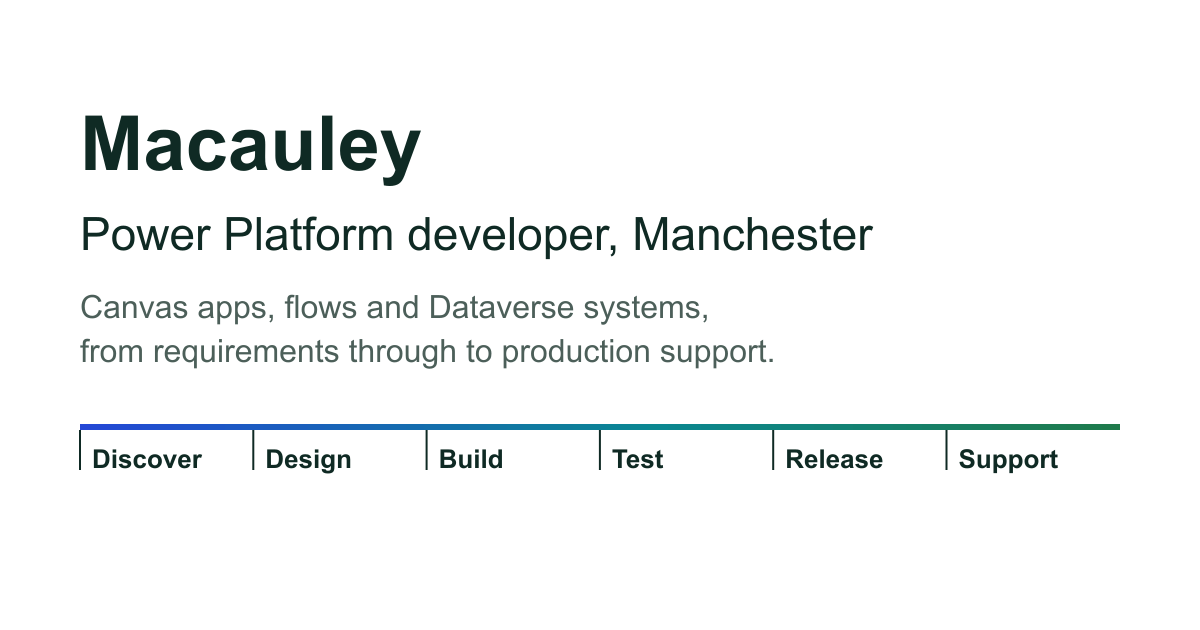
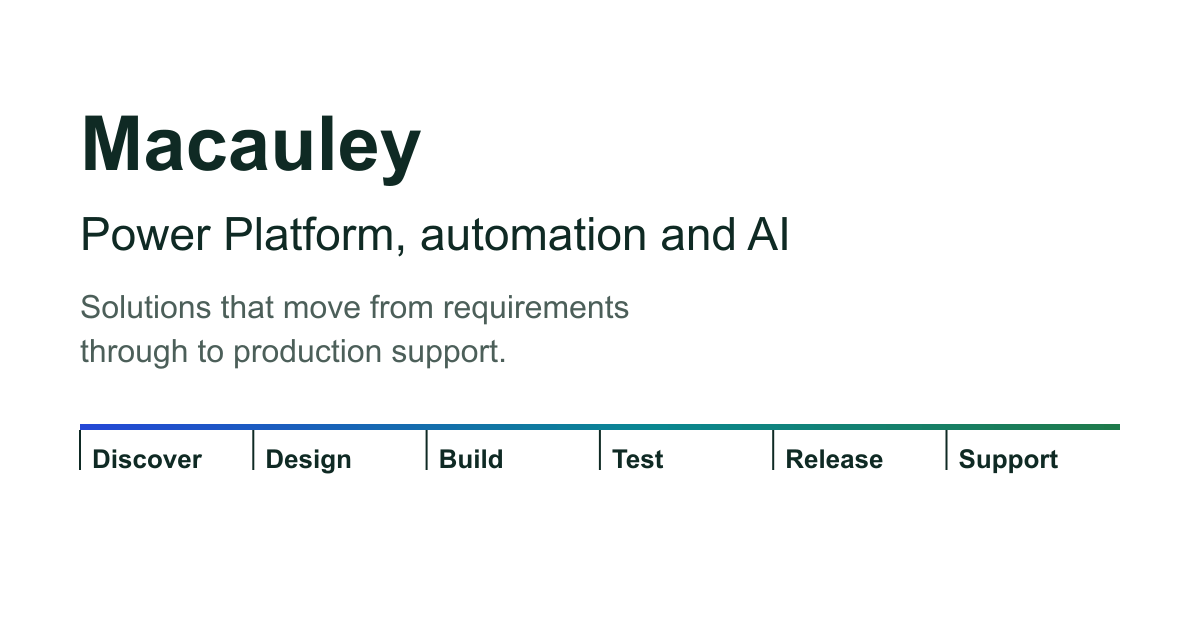
Reduce personal details in public portfolio

Changed region(s): [[0.3392, 0.3317, 0.74, 0.4222], [0.0617, 0.4524, 0.5858, 0.5127], [0.0617, 0.5429, 0.6475, 0.6032]]

diff --git a/src/content/site.ts b/src/content/site.ts
@@ -5,12 +5,11 @@
 export const site = {
   name: 'Macauley',
   role: 'Power Platform Developer',
-  location: 'Manchester, UK',
   url: 'https://macacodes.github.io',
   linkedin: 'https://www.linkedin.com/in/Macauley-Gibson',
-  title: 'Macauley, Power Platform developer in Manchester',
+  title: 'Macauley | Power Platform, automation and AI',
   description:
-    'Power Platform developer in Manchester. Canvas and model-driven apps, Power Automate, Dataverse, integrations and Copilot Studio agents, taken from requirements through to production support.',
+    'Power Platform developer working across automation, Dataverse, integrations and Copilot Studio, from requirements through to production support.',
 };
 
 export type StageId = 'discover' | 'design' | 'build' | 'test' | 'release' | 'support';
@@ -164,7 +163,7 @@ export const projects: Project[] = [
   {
     id: 'lead-generation',
     title: 'Lead-generation tool',
-    need: 'An internal business development tool for CRM Knowledge.',
+    need: 'An internal business development tool for a consultancy.',
     did: 'Built it on job board APIs, with a largely automated outbound campaign process. A person reviews before anything is sent.',
     result: 'In use and generating leads.',
     tech: 'Job board APIs, automation with human-in-the-loop review',
@@ -217,7 +216,7 @@ export const journey: { when: string; what: string; body: string }[] = [
   {
     when: '2016 to 2023',
     what: 'Recruitment, talent and commercial roles',
-    body: 'Technology recruitment, internal talent acquisition, executive search and sales. Employers included Wiley Edge, Interactive Investor, Sopra Steria, Co-op and John Lewis, with clients such as Amazon, EY, Argos and Sainsbury’s.',
+    body: 'Technology recruitment, internal talent acquisition, executive search and sales across consulting, financial services and retail.',
   },
   {
     when: 'Early 2024',
@@ -226,12 +225,12 @@ export const journey: { when: string; what: string; body: string }[] = [
   },
   {
     when: 'Mid 2024',
-    what: 'Data Specialist, The Talent Crowd',
+    what: 'Data Specialist, recruitment consultancy',
     body: 'Migrated data from a legacy applicant tracking system to a new Dynamics 365 CRM.',
   },
   {
     when: 'September 2024 to now',
-    what: 'Power Platform Developer, CRM Knowledge',
+    what: 'Power Platform Developer, Microsoft consultancy',
     body: 'Client work from pre-sales demonstrations through to production support.',
   },
 ];

diff --git a/README.md b/README.md
@@ -16,7 +16,8 @@ npm run dev
 
 All copy is in [`src/content/site.ts`](src/content/site.ts): the stages, projects, skills,
 journey and qualifications. Projects use a fixed formula (need, what I did, result, built with). The hero sentence and section headings are in
-[`src/pages/index.astro`](src/pages/index.astro). The photo is `src/assets/macauley.jpg`.
+[`src/pages/index.astro`](src/pages/index.astro). The hero illustration is
+`src/assets/macauley-drawing.svg`.
 
 Visual rules are in [`DESIGN.md`](DESIGN.md); tokens are at the top of
 [`src/styles/global.css`](src/styles/global.css).
@@ -38,5 +39,6 @@ If the hero wording changes, regenerate the social image with `npm run og`.
 ## Privacy rules for this repository
 
 - Never commit a CV, or any email address, phone number or home address.
-- Consultancy clients are not named.
+- Current and former employers and clients are not named in public copy.
+- Do not commit personal photographs.
 - No analytics, cookies or contact form.

diff --git a/DESIGN.md b/DESIGN.md
@@ -110,4 +110,4 @@ and documentation.
 ### Portrait
 
 The hero portrait is an original line drawing (`src/assets/macauley-drawing.svg`), inlined so it
-takes the ink colour in both themes. The photo `src/assets/macauley.jpg` is kept in the repo but not shown.
+takes the ink colour in both themes. Personal photographs are not stored in the public repository.
